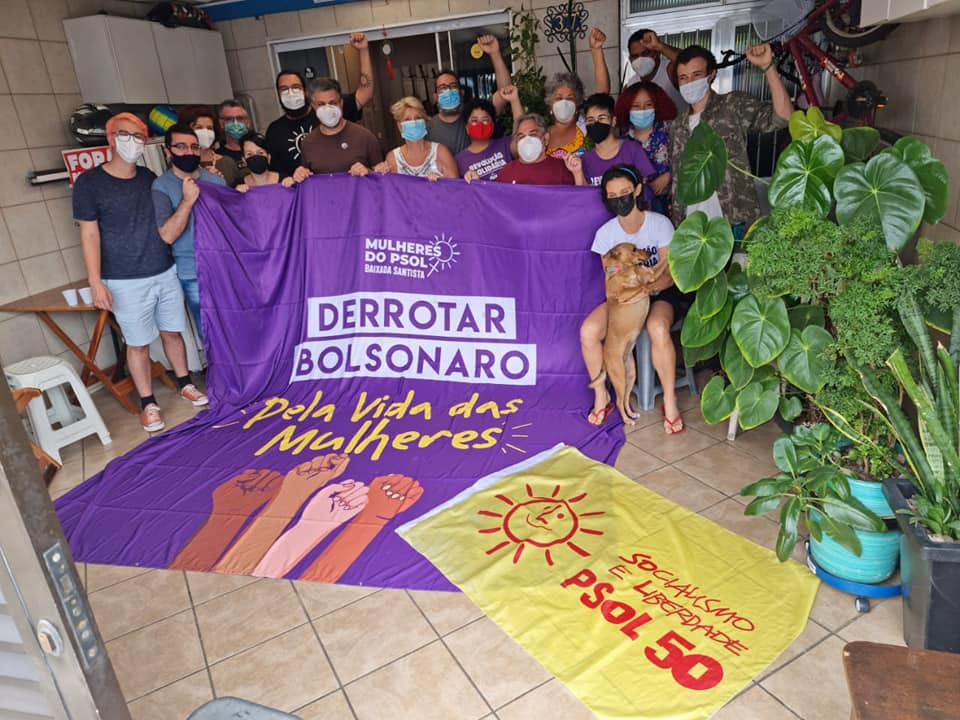
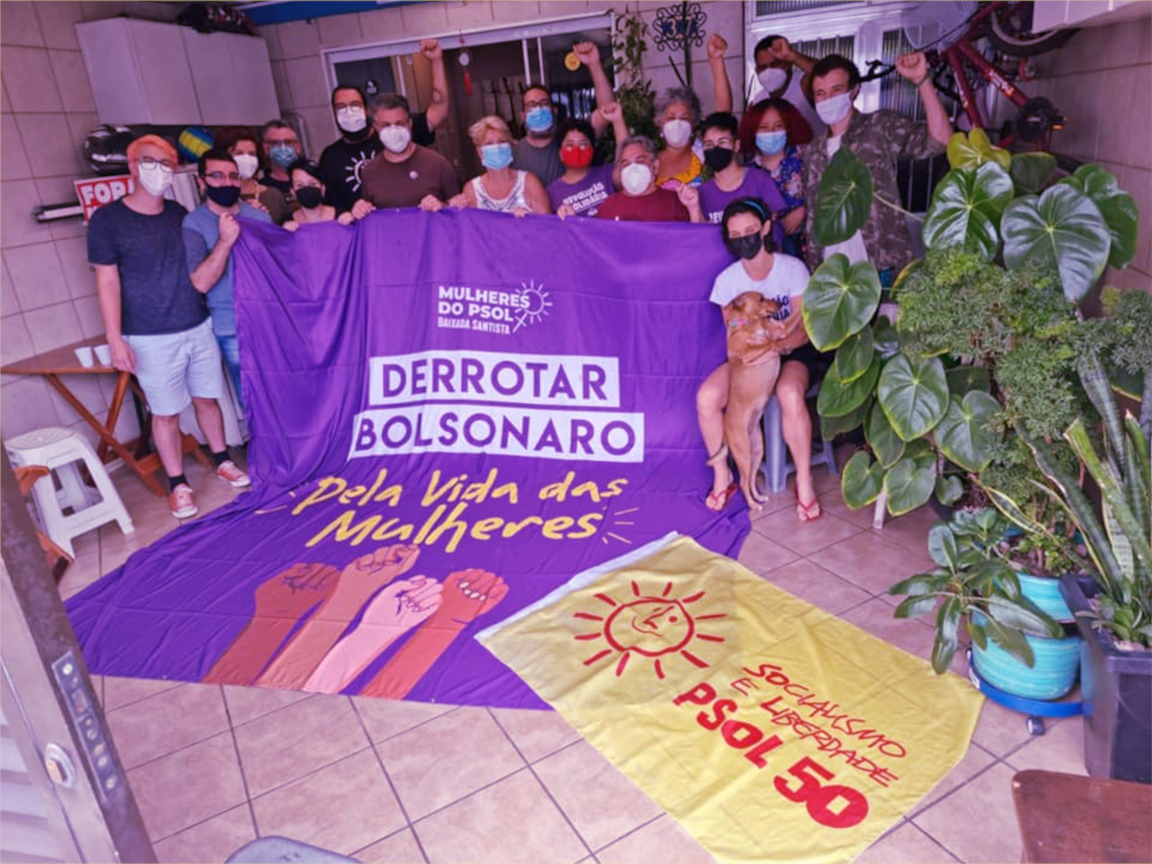
carrocel img e css

diff --git a/index.html b/index.html
@@ -41,18 +41,50 @@
     <h1 id="quem" > Partido Socialismo e Liberdade (PSOL) foi fundado em junho de 2004 <br>e defende o socialismo democrático, em defesa dos direitos humanos. </h1>
     <img  class="mx-auto d-block img" src="img/psosv-fundotranparente.png">  
 
-  </div>
+  </div >
 
+  <div  >
+    <div id="demo" class="carousel slide " data-ride="carousel">
   
+      <!-- Indicators -->
+      <ul class="carousel-indicators">
+        <li data-target="#demo" data-slide-to="0" class="active"></li>
+        <li data-target="#demo" data-slide-to="1"></li>
+        <li data-target="#demo" data-slide-to="2"></li>
+      </ul>
+      
+      <!-- The slideshow -->
+      <div class="carousel-inner center">
+        <div class="carousel-item active">
+          <img src="img/psol-sv1.jpg" alt="psol-sv" >
+        </div>
+        <div class="carousel-item">
+          <img src="img/napraça.jpeg" alt="Psol na Praça" >
+        </div>
+        <div class="carousel-item">
+          <img src="img/psol-sv for.jpeg" alt="psol sv NA" >
+        </div>
+      </div>
+      
+      <!-- Left and right controls -->
+      <h1 class="carousel-control-prev" href="#demo" data-slide="prev">
+        <span class="carousel-control-prev-icon"></span>
+      </a>
+      <h1 class="carousel-control-next" href="#demo" data-slide="next">
+        <span class="carousel-control-next-icon"></span>
+      </a>
+      
+    </div>
+  </div>
 
     
    
 
-        </div>
-        </div>
         
-         <br>
-         <div class="w3-row-padding  fundo" id="filiese" >
+        
+        
+         <br id="filiese">
+         <div class="w3-row-padding  fundo"  >
           <div class="w3-col l3 m6 w3-margin-bottom ">
             <div  class="w3-display-container" >
 
@@ -82,37 +114,7 @@
 
            
 
-            <div id="demo" class="carousel slide fundo" data-ride="carousel">
-  
-              <!-- Indicators -->
-              <ul class="carousel-indicators">
-                <li data-target="#demo" data-slide-to="0" class="active"></li>
-                <li data-target="#demo" data-slide-to="1"></li>
-                <li data-target="#demo" data-slide-to="2"></li>
-              </ul>
-              
-              <!-- The slideshow -->
-              <div class="carousel-inner center">
-                <div class="carousel-item active">
-                  <img src="img/psol-sv1.jpg" alt="Psol sv " >
-                </div>
-                <div class="carousel-item">
-                  <img src="img/napraça.jpeg" alt="Psol na Praça" >
-                </div>
-                <div class="carousel-item">
-                  <img src="img/psol-sv for.jpeg" alt="psol sv NA PAULISTA" >
-                </div>
-              </div>
-              
-              <!-- Left and right controls -->
-              <h1 class="carousel-control-prev" href="#demo" data-slide="prev">
-                <span class="carousel-control-prev-icon"></span>
-              </a>
-              <h1 class="carousel-control-next" href="#demo" data-slide="next">
-                <span class="carousel-control-next-icon"></span>
-              </a>
-              <br>
-            </div>
+          
   
   
   

diff --git a/css/main.css b/css/main.css
@@ -12,8 +12,10 @@ html{
 }
  nav ul{
      display: flex;
+     gap: 1rem;
      align-items: center;
-     gap: 0.3rem;
+     
+   
  }
  
 
@@ -29,11 +31,8 @@ html{
 .menu {
     font-family: Lato,ADLIBN;
     font-size:1.125rem;
-    text-align:center ;
-    padding-top: 0%;
     color: #f2e7c8;
-    background-color: transparent;
-    
+   
     transition-property: background-color,border-radius;;
     transition-duration: 2.7s;
    
@@ -55,16 +54,30 @@ html{
 }
 .fundo-roo{
     background-color: #4c0068;
+  
+    
+   
+}
+.fundo-roo2{
+    background-color: #4c0068;
+    opacity : 0.9 ;
+    
    
 }
 
 
 .img{
     width:35%;
+    display: flex;
+    gap: 1rem;
    
 
     
 }
+.carousel-inner img {
+    width: 75%;
+   
+  }
 
 
 h1{
@@ -117,11 +130,7 @@ body{
     
   }
 
-  .carousel-inner img {
-    width: 55%;
-    height: 50%;
-  }
-
+  
  .center {
    
     text-align:center ;
